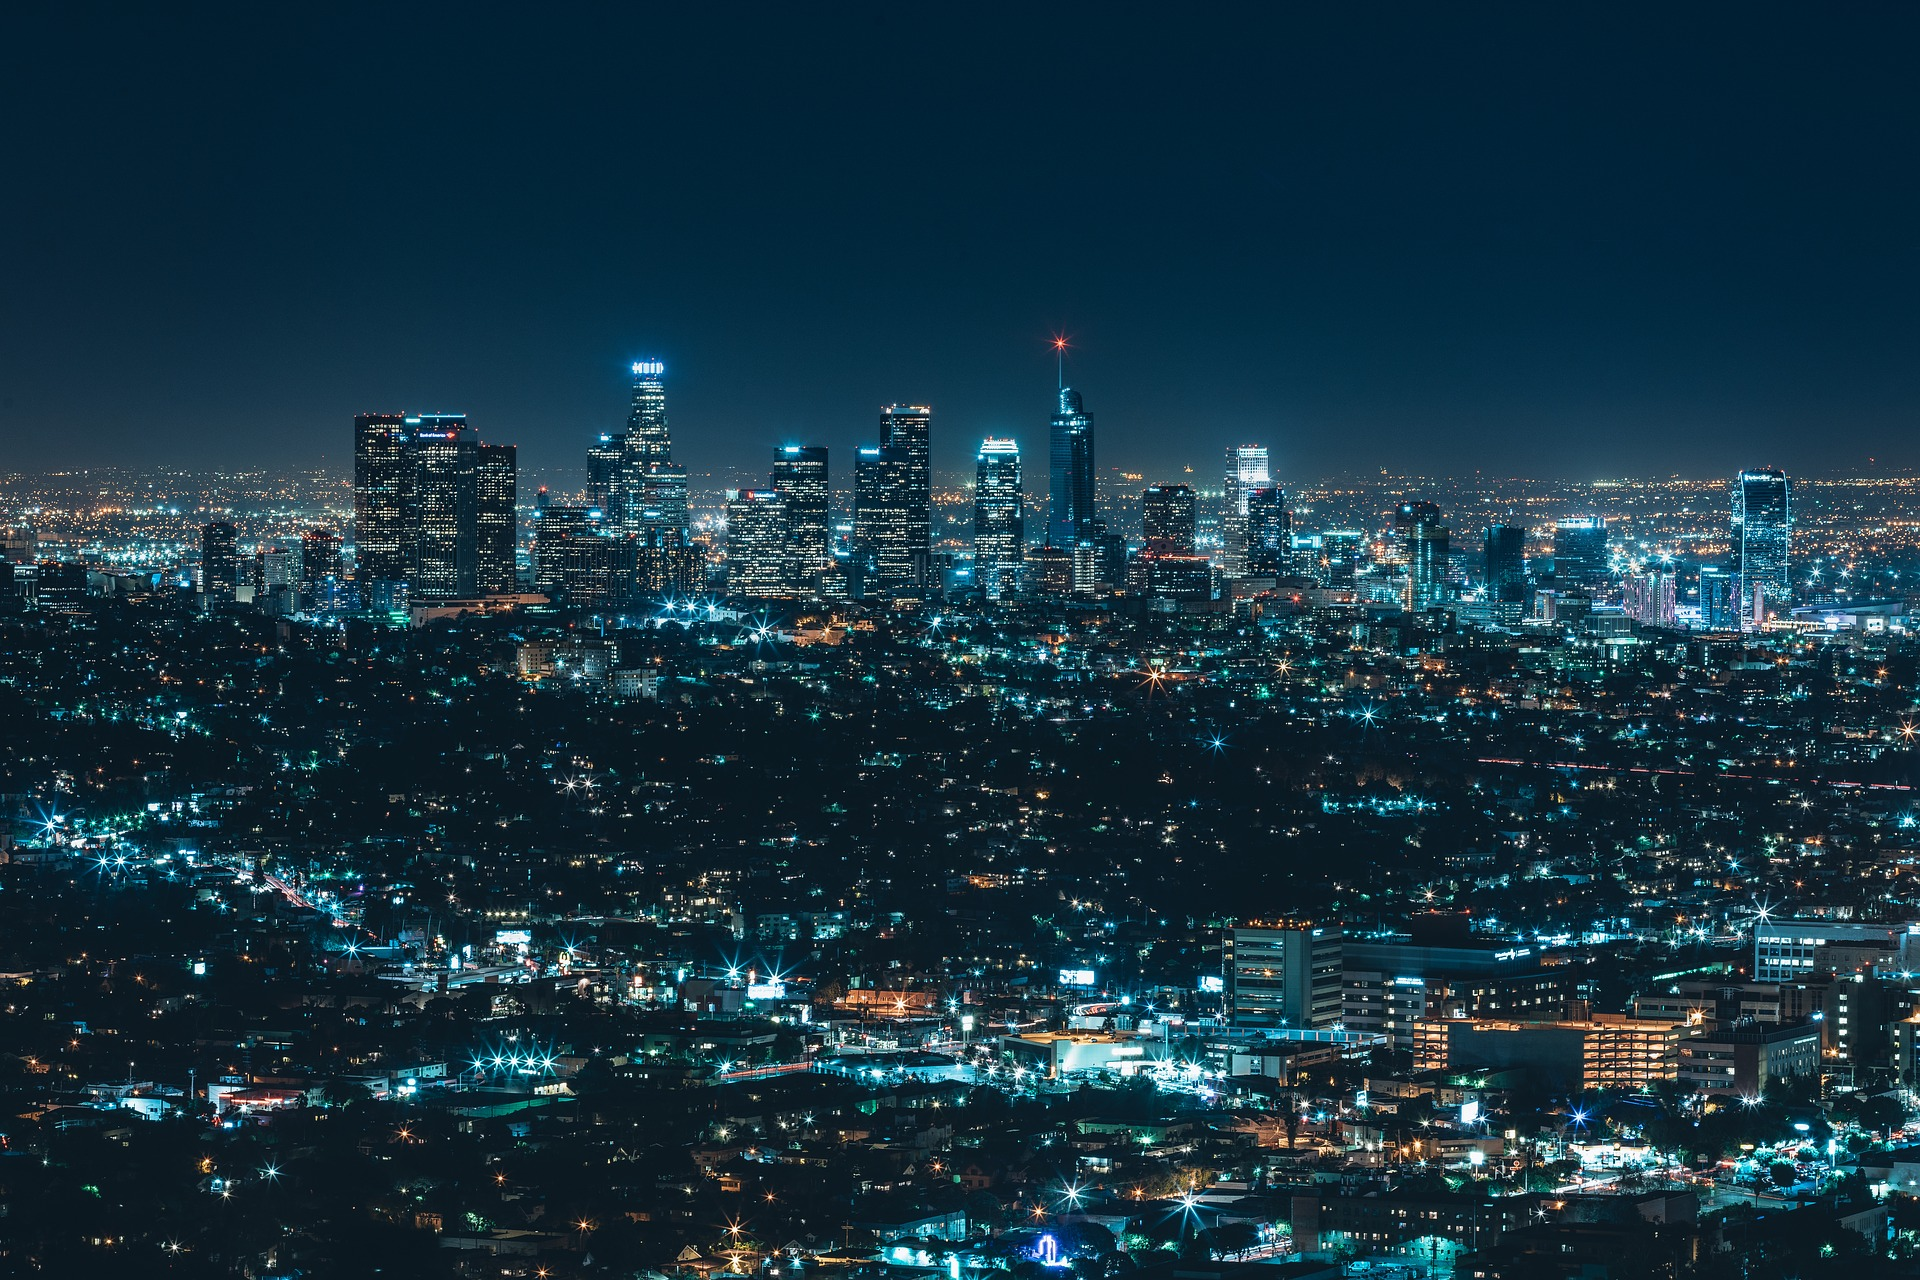
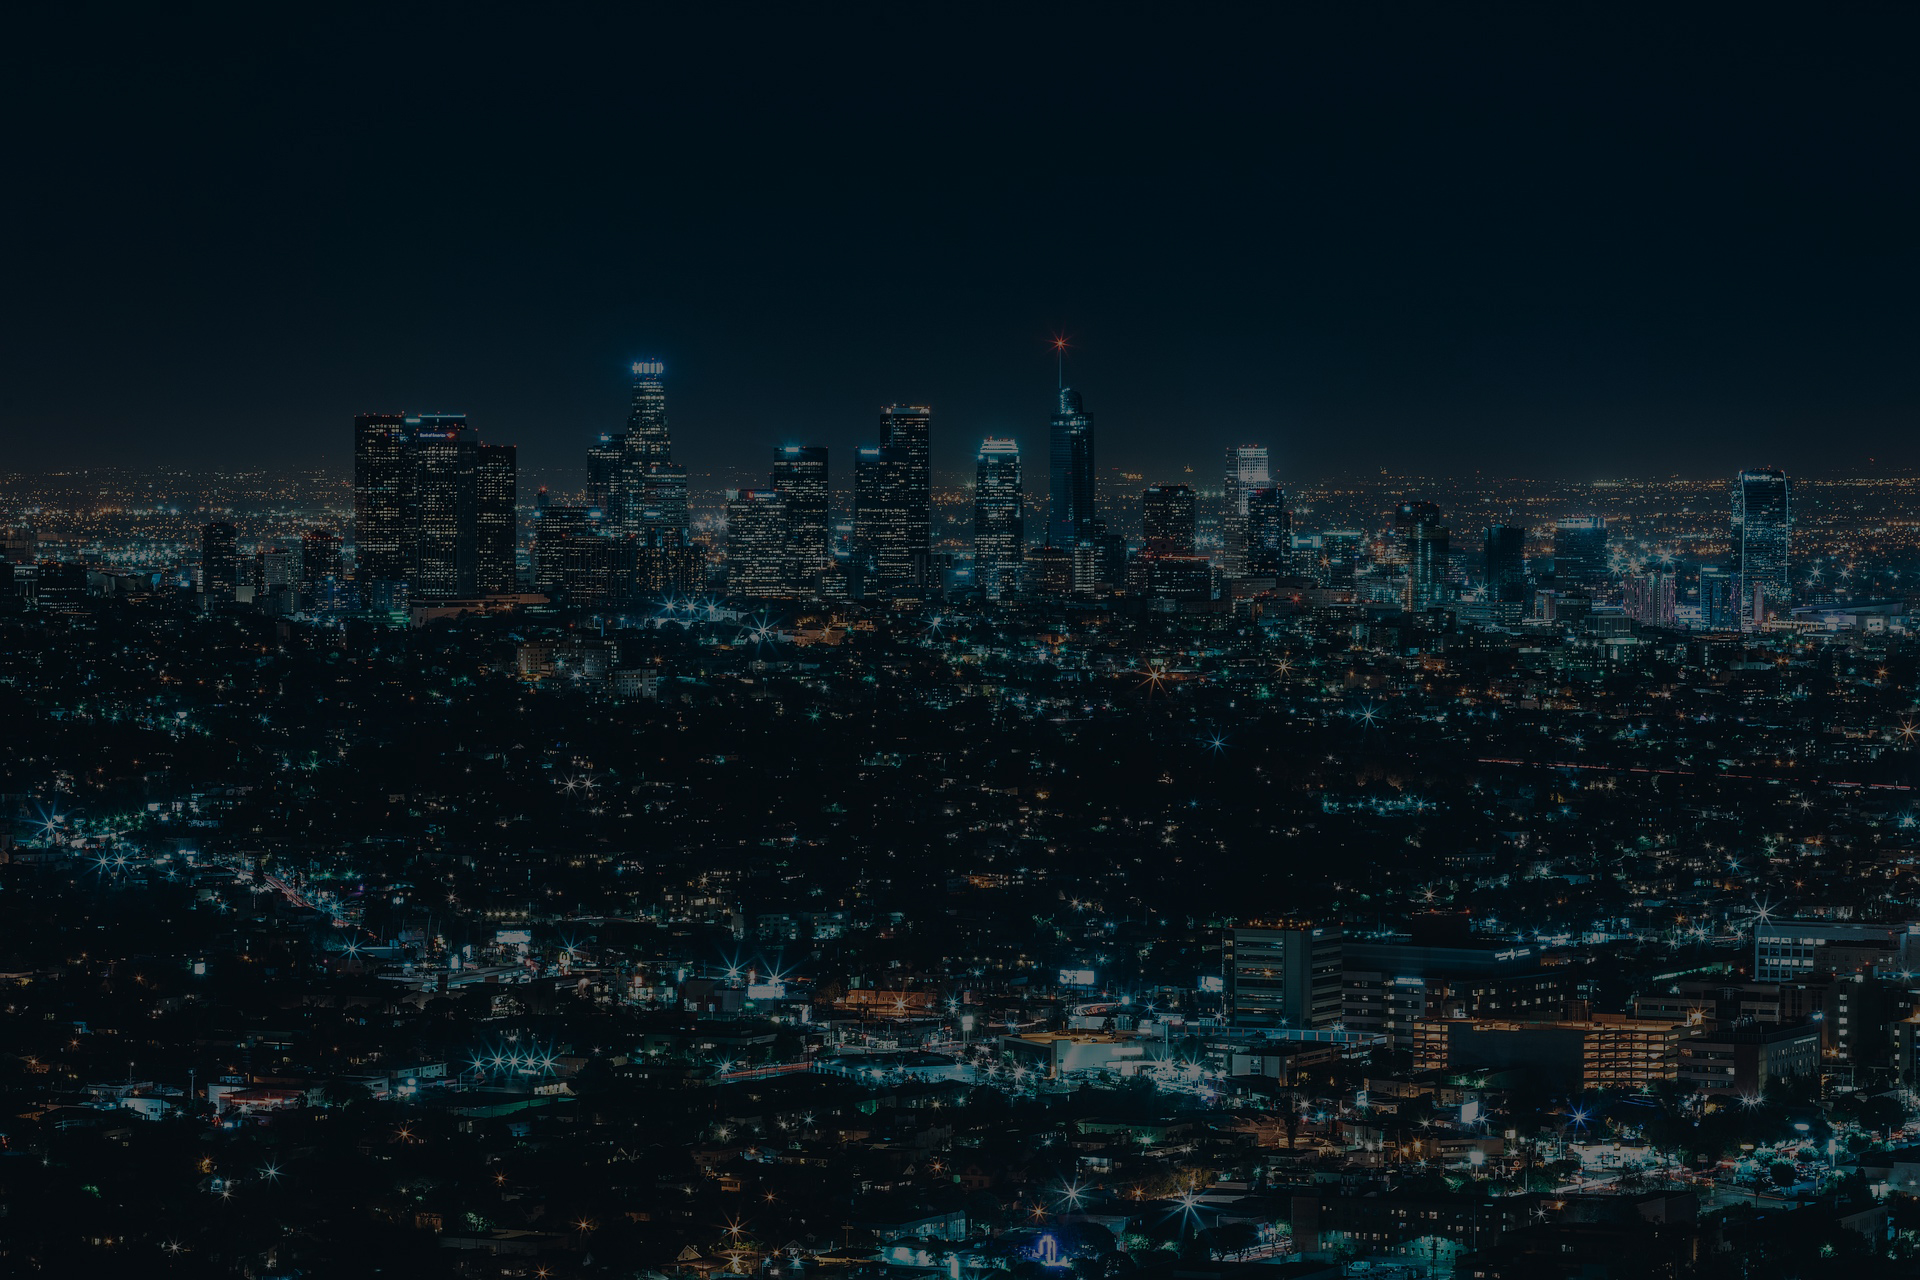
contrast change to image and text on footer

diff --git a/src/components/content/Footer/FooterSection.js b/src/components/content/Footer/FooterSection.js
@@ -2,40 +2,24 @@ import React from "react";
 import { Col, Container, Row, Footer } from "mdbreact";
 
 class FooterSection extends React.Component {
-render() {
-return (
-<Footer className="footer font-small pt-4 mt-4">
-  <Container fluid className="text-center text-md-left">
-    <Row>
-      <Col md="6">
-      <h5 className="title">Footer Content</h5>
-      <p>
-        Here you can use rows and columns here to organize your footer
-        content.
-      </p>
-      </Col>
-      <Col md="6">
-      <h5 className="title">Links</h5>
-      <ul>
-        <li className="list-unstyled">
-          <a href="#!">Link 1</a>
-        </li>
-        <li className="list-unstyled">
-          <a href="#!">Link 2</a>
-        </li>
-        <li className="list-unstyled">
-          <a href="#!">Link 3</a>
-        </li>
-        <li className="list-unstyled">
-          <a href="#!">Link 4</a>
-        </li>
-      </ul>
-      </Col>
-    </Row>
-  </Container>
-</Footer>
-);
-}
+  render() {
+    return (
+      <Footer className="footer font-small pt-4 mt-4">
+        <Container fluid className="text-center text-md-left">
+          <Row>
+            <Col md="6">
+              <p>
+                Made with tremendous amount of time, effort, and sacrifice.
+              </p>
+              <p>
+                <a target="_blank" href="https://github.com/Fernando4627/LFJ-Looking-for-Job">View Github Repo Here</a>
+              </p>
+            </Col>
+          </Row>
+        </Container>
+      </Footer>
+    );
+  }
 }
 
 export default FooterSection;
